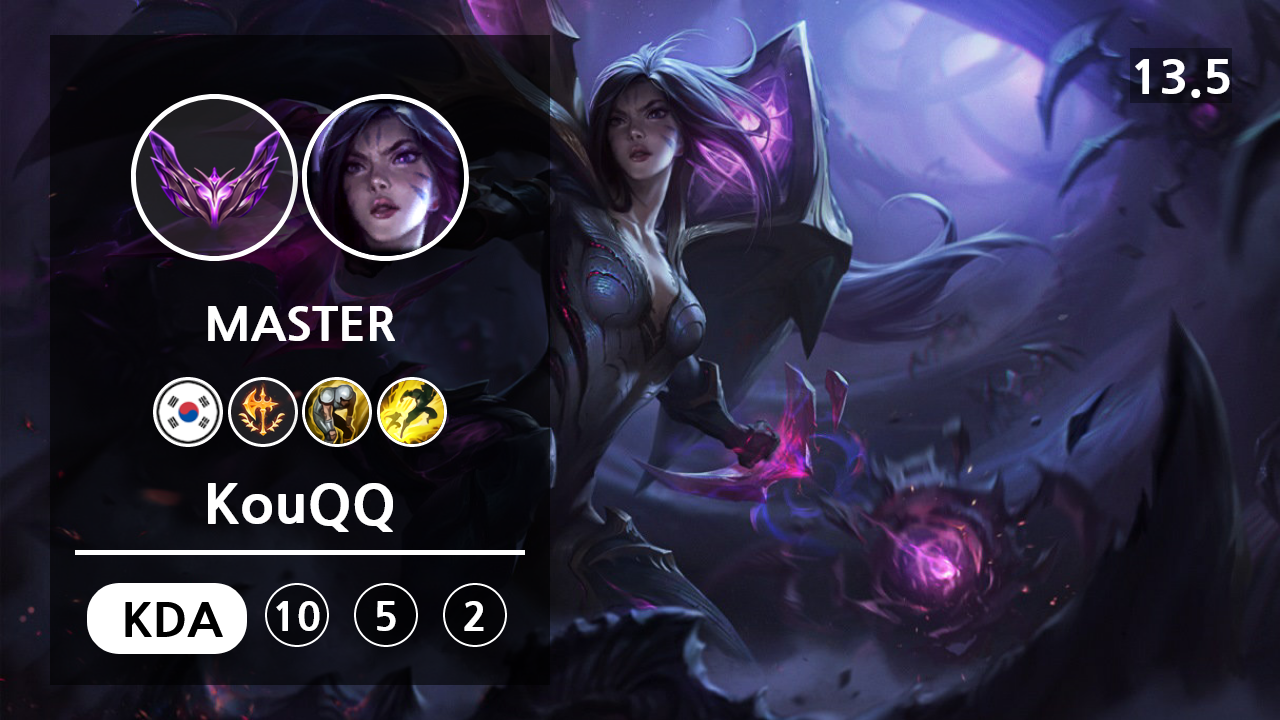
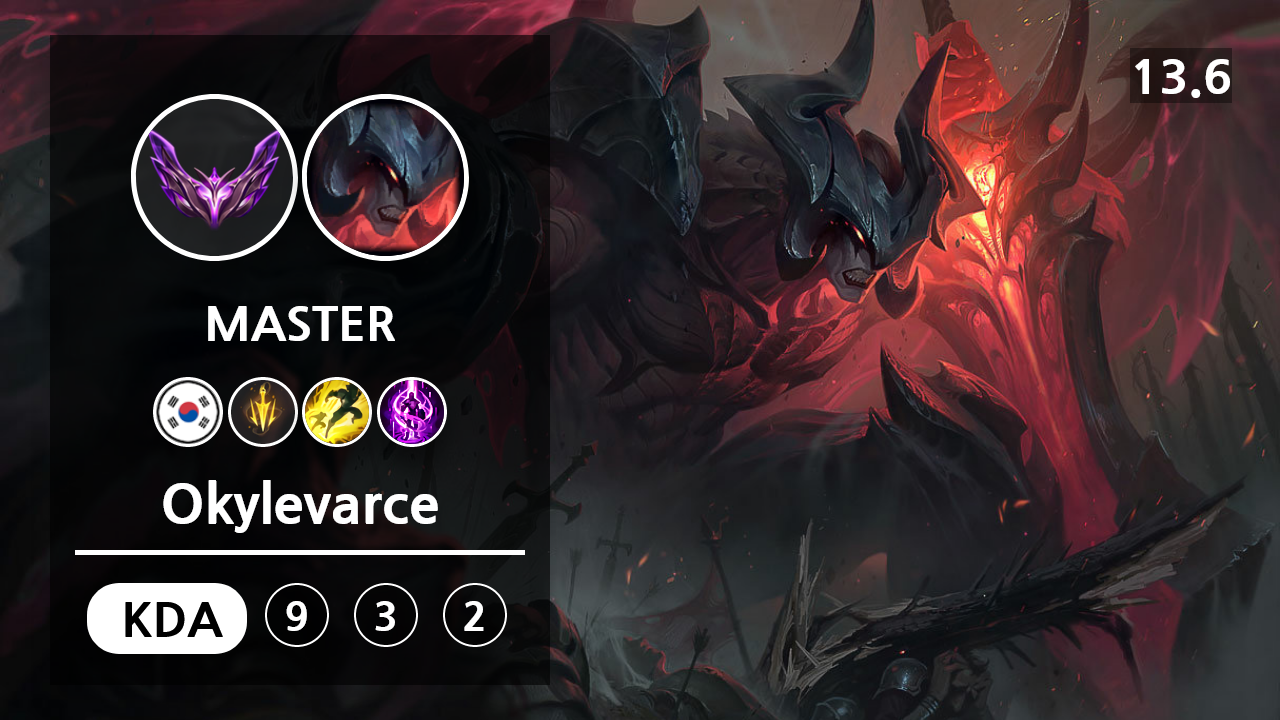
updated shortcuts

diff --git a/assets/thumbnail.html b/assets/thumbnail.html
@@ -12,7 +12,7 @@
             font-family: 'Nanum Gothic', sans-serif;
         }
         .container {
-            background-image: url('https://ddragon.leagueoflegends.com/cdn/img/champion/splash/Kaisa_0.jpg');
+            background-image: url('https://ddragon.leagueoflegends.com/cdn/img/champion/splash/Aatrox_0.jpg');
             background-size: cover;
             width: 1280px;
             height: 720px;
@@ -145,32 +145,32 @@
         <div class="frame">
             <div class="mainplayers">
                 <img class="players1" src='https://lolg-cdn.porofessor.gg/img/s/league-icons-v3/160/7.png'>
-                <img class="players1" src='https://opgg-static.akamaized.net/meta/images/lol/champion/Kaisa.png'/>
+                <img class="players1" src='https://opgg-static.akamaized.net/meta/images/lol/champion/Aatrox.png'/>
             </div>
             <div class="challenger">
                 <p>MASTER</p>
             </div>
             <div class="playerlist">
                 <img class="players" src='../assets/img/kr.png'/>
-                <img class="players" src='https://www.mobafire.com/images/reforged-rune/Conqueror.png'/>
-                <img class="players" src='../assets/img/spell/Exhaust.png'/>
+                <img class="players" src='https://www.mobafire.com/images/reforged-rune/Lethal-Tempo.png'/>
                 <img class="players" src='../assets/img/spell/Flash.png'/>
+                <img class="players" src='../assets/img/spell/Teleport.png'/>
             </div>
             <div class="match">
-                <p class="mvp">KouQQ</p>
+                <p class="mvp">Okylevarce</p>
             </div>
             <hr class="line"/>
             <div class="bottom" style='display:flex'>
                 <p class="kdatext">KDA</p>
                 <p >
-                    <p class="kda">10 </p>
-                    <p class="kda"> 5 </p>
+                    <p class="kda">9 </p>
+                    <p class="kda"> 3 </p>
                     <p class="kda"> 2</p>
                 </p>
             </div>
         </div>
         <div class="patch">
-            <p>13.5</p>
+            <p>13.6</p>
         </div>
 
 

diff --git a/video_maker/usecases/record_video.py b/video_maker/usecases/record_video.py
@@ -18,30 +18,38 @@ class RecordVideo:
         self.__run_game()
         self.__run_obs()
         sleep(50)
+        # select champion
         self.__select_player()
         
-        # Press Ctrl+Shift+Z
+        sleep(2)
+        pydirectinput.keyDown('c')
+        pydirectinput.keyUp('c')
+        sleep(1)
+        pydirectinput.keyDown('n')
+        pydirectinput.keyUp('n')
+        sleep(1)
+        pydirectinput.keyDown('o')
+        pydirectinput.keyUp('o')
+        sleep(1)
+        pydirectinput.keyDown('u')
+        pydirectinput.keyUp('u')
+        sleep(5)
+        # zoom out
+        # Press and hold Ctrl+Shift+Z
         pydirectinput.keyDown('ctrl')
         pydirectinput.keyDown('shift')
         pydirectinput.keyDown('z')
 
-        # Release Ctrl+Shift+Z
+        # Move mouse pointer down 5 times
+        for i in range(5):
+            pydirectinput.moveRel(0, 50)
+
+        # Release all keys
         pydirectinput.keyUp('ctrl')
         pydirectinput.keyUp('shift')
         pydirectinput.keyUp('z')
-        sleep(2)
-        # Scroll the mouse wheel down 5 times
-        for i in range(5):
-            pyautogui.scroll(-1)  # -1 indicates scrolling down
-            # pydirectinput.keyDown('down')
-            # pydirectinput.keyUp('down')
-        sleep(2)
-        pydirectinput.keyDown('c')
-        pydirectinput.keyUp('c')
-        sleep(2)
-        pydirectinput.keyDown('n')
-        pydirectinput.keyUp('n')
-        sleep(5)
+        # zoom out end
+        
         
         self.__start_stop_recording()
         sleep(self.__duration_in_seconds())
@@ -63,7 +71,7 @@ class RecordVideo:
         subprocess.run(["start", "cmd", "/c", f"{self.__replay_file_dir}\{file}"], shell=True)
 
     def __run_obs(self):
-        pyautogui.hotkey('super', '4')
+        pyautogui.hotkey('super', '1')
 
     def __select_player(self):
         if self.__match_data['team1']['result'] == 'Victory':

diff --git a/video_maker/main.py b/video_maker/main.py
@@ -9,11 +9,11 @@ from usecases.upload_youtube import UploadYoutube
 # lol_data_scrapper = ScrapLolData()
 # lol_data_scrapper.get_match_data_and_download_replay()
 lol_data: MatchData = load()
-thumb_creator = CreateThumbnail(data_scrapper=DataScrapper(), data=lol_data)
-thumb_creator.create_thumbnail()
+# thumb_creator = CreateThumbnail(data_scrapper=DataScrapper(), data=lol_data)
+# thumb_creator.create_thumbnail()
 
-# video_recorder = RecordVideo(lol_data)
-# video_file_name = video_recorder.record()
+video_recorder = RecordVideo(lol_data)
+video_file_name = video_recorder.record()
 
 # youtube_uploader = UploadYoutube(lol_data, video_file_name)
 # youtube_uploader.upload_video()

diff --git a/test.py b/test.py
@@ -1,0 +1,15 @@
+import pydirectinput
+
+# Press and hold Ctrl+Shift+Z
+pydirectinput.keyDown('ctrl')
+pydirectinput.keyDown('shift')
+pydirectinput.keyDown('z')
+
+# Move mouse pointer down 5 times
+for i in range(5):
+    pydirectinput.moveRel(0, 50)
+
+# Release all keys
+pydirectinput.keyUp('ctrl')
+pydirectinput.keyUp('shift')
+pydirectinput.keyUp('z')
